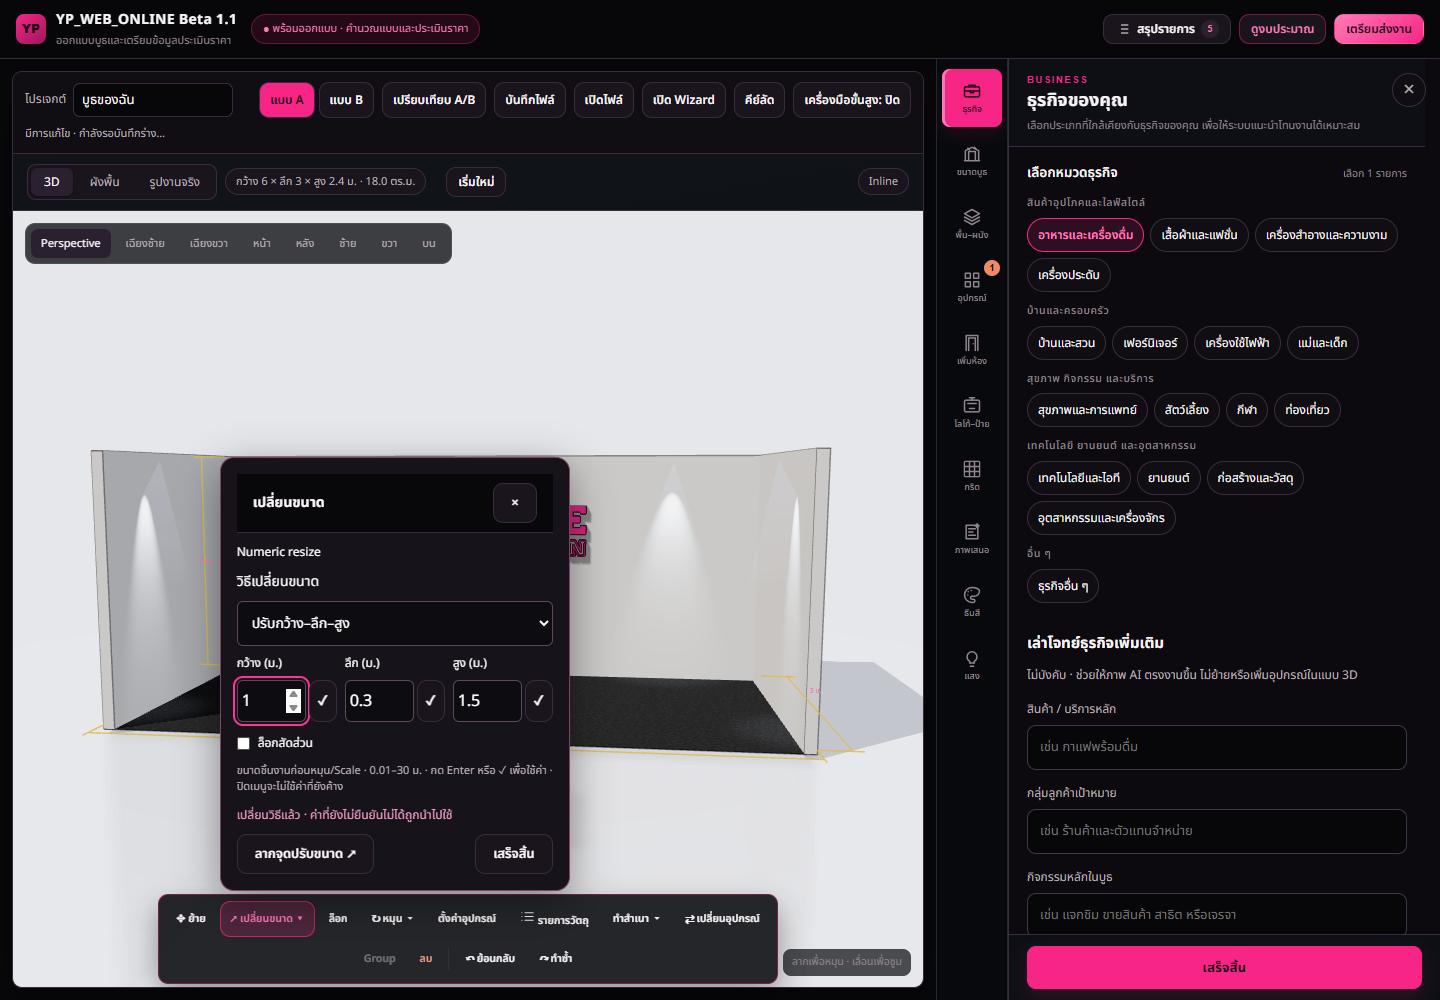
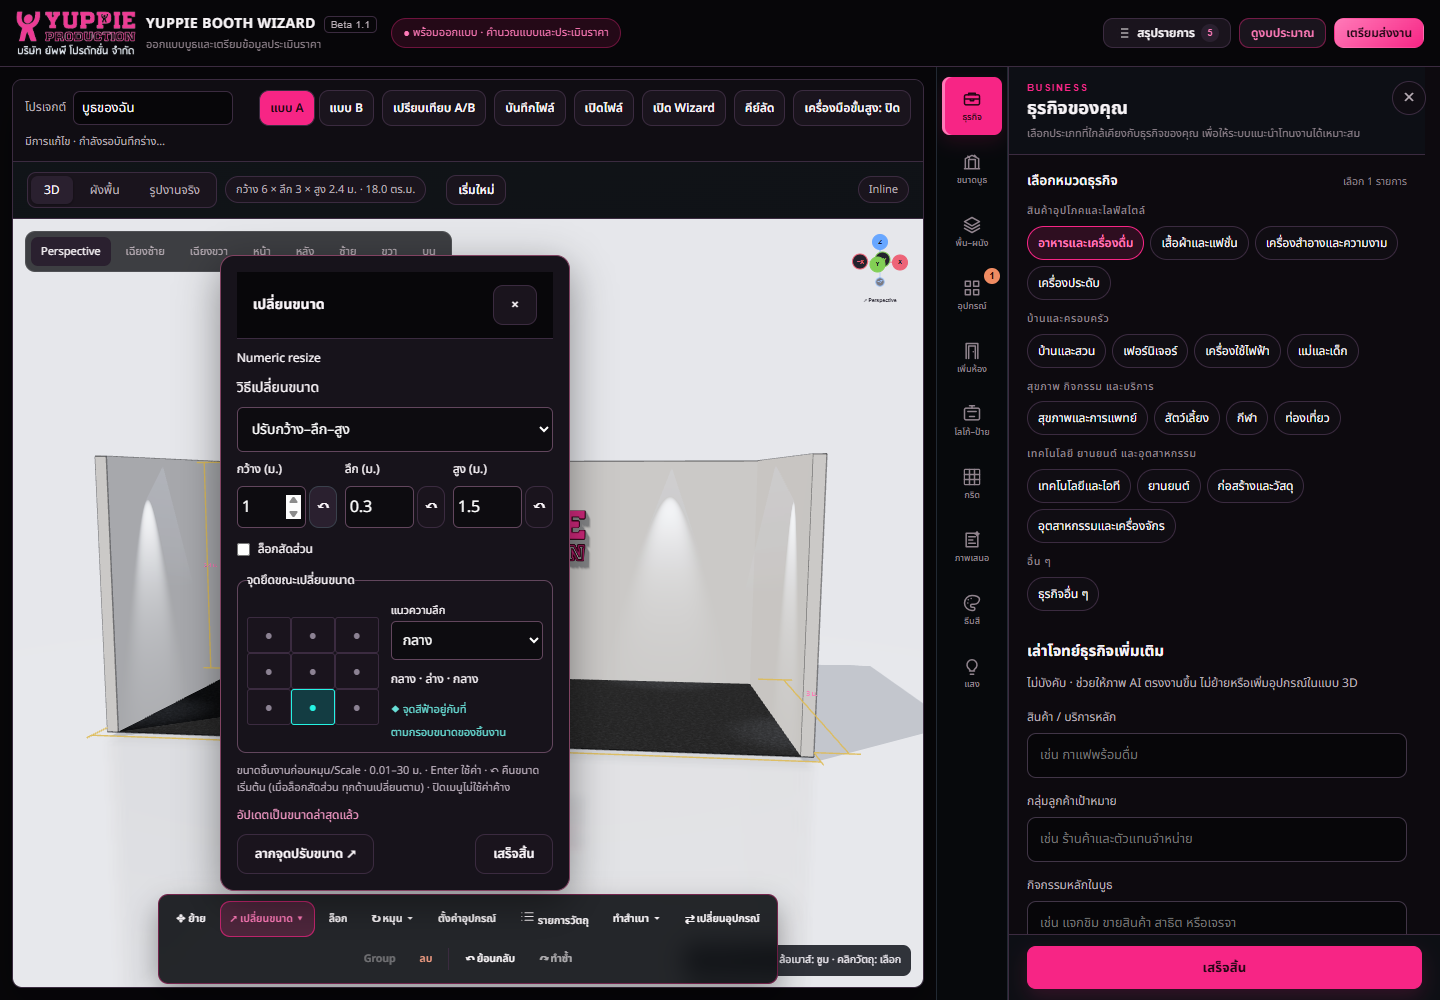
เพิ่มปุ่ม reset ในเมนูปรับขนาด

diff --git a/public/yp-web-ai/js/resize-submenu.js b/public/yp-web-ai/js/resize-submenu.js
@@ -5,7 +5,7 @@
  const panel=document.createElement('section');panel.id='resizeSubmenu';panel.hidden=true;
  panel.setAttribute('role','dialog');panel.setAttribute('aria-labelledby','resizeSubmenuTitle');
  panel.innerHTML=`<header><strong id="resizeSubmenuTitle">เปลี่ยนขนาด</strong><button type="button" class="btn" id="resizeSubmenuClose" aria-label="ปิดเมนูเปลี่ยนขนาด">×</button></header>
- <p id="resizeSubmenuName"></p><label for="resizeSubmenuMode">วิธีเปลี่ยนขนาด</label><select id="resizeSubmenuMode" style="width:100%;margin:8px 0;padding:10px;background:#0d0c10;color:white;border:1px solid #62465d;border-radius:6px"><option value="resize">ปรับกว้าง–ลึก–สูง</option><option value="scale">ย่อ–ขยายทั้งชิ้น (รักษาสัดส่วน)</option></select><div class="resize-numeric-fields">${[['w','กว้าง'],['d','ลึก'],['h','สูง']].map(([axis,label])=>`<label for="resizeValue${axis}">${label} (ม.)<span><input id="resizeValue${axis}" data-resize-axis="${axis}" type="number" min="${MIN_ASSET_DIMENSION}" max="${MAX_ASSET_DIMENSION}" step="0.01" inputmode="decimal" enterkeyhint="done" aria-describedby="resizeSubmenuStatus"><button type="button" class="btn" data-resize-apply="${axis}" aria-label="ใช้ค่า${label}" title="ใช้ค่า${label}">✓</button></span></label>`).join('')}</div>
+ <p id="resizeSubmenuName"></p><label for="resizeSubmenuMode">วิธีเปลี่ยนขนาด</label><select id="resizeSubmenuMode" style="width:100%;margin:8px 0;padding:10px;background:#0d0c10;color:white;border:1px solid #62465d;border-radius:6px"><option value="resize">ปรับกว้าง–ลึก–สูง</option><option value="scale">ย่อ–ขยายทั้งชิ้น (รักษาสัดส่วน)</option></select><div class="resize-numeric-fields">${[['w','กว้าง'],['d','ลึก'],['h','สูง']].map(([axis,label])=>`<label for="resizeValue${axis}">${label} (ม.)<span><input id="resizeValue${axis}" data-resize-axis="${axis}" type="number" min="${MIN_ASSET_DIMENSION}" max="${MAX_ASSET_DIMENSION}" step="0.01" inputmode="decimal" enterkeyhint="done" aria-describedby="resizeSubmenuStatus"><button type="button" class="btn" data-resize-reset="${axis}" aria-label="รีเซ็ต${label}เป็นขนาดเริ่มต้น" title="รีเซ็ต${label}เป็นขนาดเริ่มต้น">↶</button></span></label>`).join('')}</div>
  <label class="resize-ratio"><input type="checkbox" id="resizeSubmenuLock"> ล็อกสัดส่วน</label>
  <fieldset class="resize-anchor"><legend>จุดยึดขณะเปลี่ยนขนาด</legend><div class="resize-anchor-layout"><div id="resizeAnchorGrid" role="group" aria-label="จุดยึดซ้าย กลาง ขวา และบน กลาง ล่าง">${[1,.5,0].map((y,row)=>[0,.5,1].map((x,col)=>`<button type="button" class="btn" data-anchor-x="${x}" data-anchor-y="${y}" aria-label="ยึด${['บน','กลาง','ล่าง'][row]}${['ซ้าย','กลาง','ขวา'][col]}" aria-pressed="false" title="${['บน','กลาง','ล่าง'][row]}${['ซ้าย','กลาง','ขวา'][col]}">●</button>`).join('')).join('')}</div><div><label for="resizeAnchorDepth">แนวความลึก</label><select id="resizeAnchorDepth"><option value="1">หน้า</option><option value="0.5" selected>กลาง</option><option value="0">หลัง</option></select><p id="resizeAnchorLabel" aria-live="polite"></p><small>◆ จุดสีฟ้าอยู่กับที่<br>ตามกรอบขนาดของชิ้นงาน</small></div></div></fieldset>
  <p class="resize-hint" id="resizeSubmenuHint"></p>
@@ -27,7 +27,8 @@
  function message(text,error=false){status.textContent=text;status.dataset.error=String(error);}
  function fill(obj){const scaled=mode.value==='scale';for(const a of ['w','d','h']){input(a).value=String(+(Number(obj.size[a])*(scaled?sceneObjectScaleValue(obj):1)).toFixed(3));input(a).min=scaled?obj.size[a]*obj.transformPolicy.minScale:MIN_ASSET_DIMENSION;input(a).max=scaled?obj.size[a]*obj.transformPolicy.maxScale:MAX_ASSET_DIMENSION;input(a).dataset.dirty='false';input(a).setAttribute('aria-invalid','false');}session.stamp=stamp(obj);
   lock.disabled=scaled;lock.checked=scaled||document.getElementById('assetSizeLock').checked;fillAnchor(obj);
-  document.getElementById('resizeSubmenuHint').textContent=scaled?'ขนาดหลังย่อ–ขยาย ก่อนหมุน · เปลี่ยนด้านเดียว ทุกด้านเปลี่ยนตามสัดส่วน · ช่วง '+Math.round(obj.transformPolicy.minScale*100)+'–'+Math.round(obj.transformPolicy.maxScale*100)+'% ของขนาดต้นฉบับ':'ขนาดชิ้นงานก่อนหมุน/Scale · '+MIN_ASSET_DIMENSION+'–'+MAX_ASSET_DIMENSION+' ม. · กด Enter หรือ ✓ เพื่อใช้ค่า · ปิดเมนูจะไม่ใช้ค่าที่ยังค้าง';
+  document.getElementById('resizeSubmenuHint').textContent=scaled?'ขนาดหลังย่อ–ขยาย ก่อนหมุน · กด Enter เพื่อใช้ค่า · ↶ คืน Scale 100% · เปลี่ยนทุกด้านตามสัดส่วน · ช่วง '+Math.round(obj.transformPolicy.minScale*100)+'–'+Math.round(obj.transformPolicy.maxScale*100)+'%':'ขนาดชิ้นงานก่อนหมุน/Scale · '+MIN_ASSET_DIMENSION+'–'+MAX_ASSET_DIMENSION+' ม. · Enter ใช้ค่า · ↶ คืนขนาดเริ่มต้น (เมื่อล็อกสัดส่วน ทุกด้านเปลี่ยนตาม) · ปิดเมนูไม่ใช้ค่าค้าง';
+  panel.querySelectorAll('[data-resize-reset]').forEach(b=>{const a=b.dataset.resizeReset,label={w:'กว้าง',d:'ลึก',h:'สูง'}[a],text=scaled?'คืน Scale ทั้งชิ้นเป็น 100%':'รีเซ็ต'+label+'เป็นขนาดเริ่มต้น '+(obj.originalSize?.[a]??objectCatalogDef(obj.catalogId)?.size?.[a]??obj.size[a])+' ม.';b.title=text;b.setAttribute('aria-label',text);});
  }
  function position(){if(panel.hidden)return;const rect=button.getBoundingClientRect(),height=panel.offsetHeight,width=panel.offsetWidth;
   panel.style.left=Math.max(12,Math.min(rect.left,innerWidth-width-12))+'px';panel.style.top=Math.max(12,Math.min(rect.top-height-10,innerHeight-height-12))+'px';}
@@ -69,12 +70,18 @@
    message('ใช้ขนาดแล้ว · Undo ย้อนกลับได้'+(lock.checked?' · ปรับทุกด้านตามสัดส่วน':''));position();
   }catch(e){field.setAttribute('aria-invalid','true');message(e.message,true);}
  }
+ function reset(axis){
+  const obj=eligible();if(!session||!obj||obj.id!==session.id){close();return;}
+  // Use the same validation, fixed anchor, ratio lock and Undo path as Enter.
+  input(axis).value=String(mode.value==='scale'?obj.size[axis]:(obj.originalSize?.[axis]??objectCatalogDef(obj.catalogId)?.size?.[axis]??obj.size[axis]));
+  commit(axis);
+ }
  button.onclick=open;button.textContent='↗ เปลี่ยนขนาด ▾';button.setAttribute('aria-haspopup','dialog');button.setAttribute('aria-controls',panel.id);button.setAttribute('aria-expanded','false');
  mode.onchange=()=>{const obj=eligible();if(!session||!obj)return;applying=true;let success;try{success=setObjectTransformMode(mode.value);}finally{applying=false;}if(!success){close();return;}fill(obj);message('เปลี่ยนวิธีแล้ว · ค่าที่ยังไม่ยืนยันไม่ได้ถูกนำไปใช้');position();};
  for(const a of ['w','d','h']){
-  input(a).addEventListener('input',()=>{input(a).dataset.dirty='true';input(a).setAttribute('aria-invalid','false');message('ยังไม่ใช้ค่า · กด Enter หรือ ✓ ในช่องที่แก้');});
+  input(a).addEventListener('input',()=>{input(a).dataset.dirty='true';input(a).setAttribute('aria-invalid','false');message('ยังไม่ใช้ค่า · กด Enter เพื่อใช้ค่า · ↶ คืนขนาดเริ่มต้น');});
   input(a).addEventListener('keydown',e=>{if(e.key==='Enter'&&!e.isComposing){e.preventDefault();e.stopPropagation();commit(a);}});
-  panel.querySelector(`[data-resize-apply="${a}"]`).onclick=()=>commit(a);
+  panel.querySelector(`[data-resize-reset="${a}"]`).onclick=()=>reset(a);
  }
  for(const id of ['resizeSubmenuClose','resizeSubmenuDone','resizeSubmenuDrag'])document.getElementById(id).onclick=()=>close(true);
  panel.addEventListener('keydown',e=>{if(e.key==='Escape'){e.preventDefault();e.stopPropagation();close(true);}});

diff --git a/public/yp-web-ai/index.html b/public/yp-web-ai/index.html
@@ -10317,7 +10317,7 @@ window.addEventListener('beforeunload',()=>{if(threeRenderer)threeRenderer.dispo
 <script src="js/asset-replace-ui.js?v=20260911-1"></script>
 <script src="js/asset-settings-enter.js?v=20260914-settings-split-1"></script>
 <script src="js/resize-anchor.js?v=20260914-1"></script>
-<script src="js/resize-submenu.js?v=20260914-anchor"></script>
+<script src="js/resize-submenu.js?v=20260916-reset"></script>
 <script src="js/rotate-submenu.js?v=20260914-flip-z-1"></script>
 <script src="js/copy-array.js?v=20260912-1"></script>
 <script src="js/copy-array-ui.js?v=20260914-z-up-1"></script>
